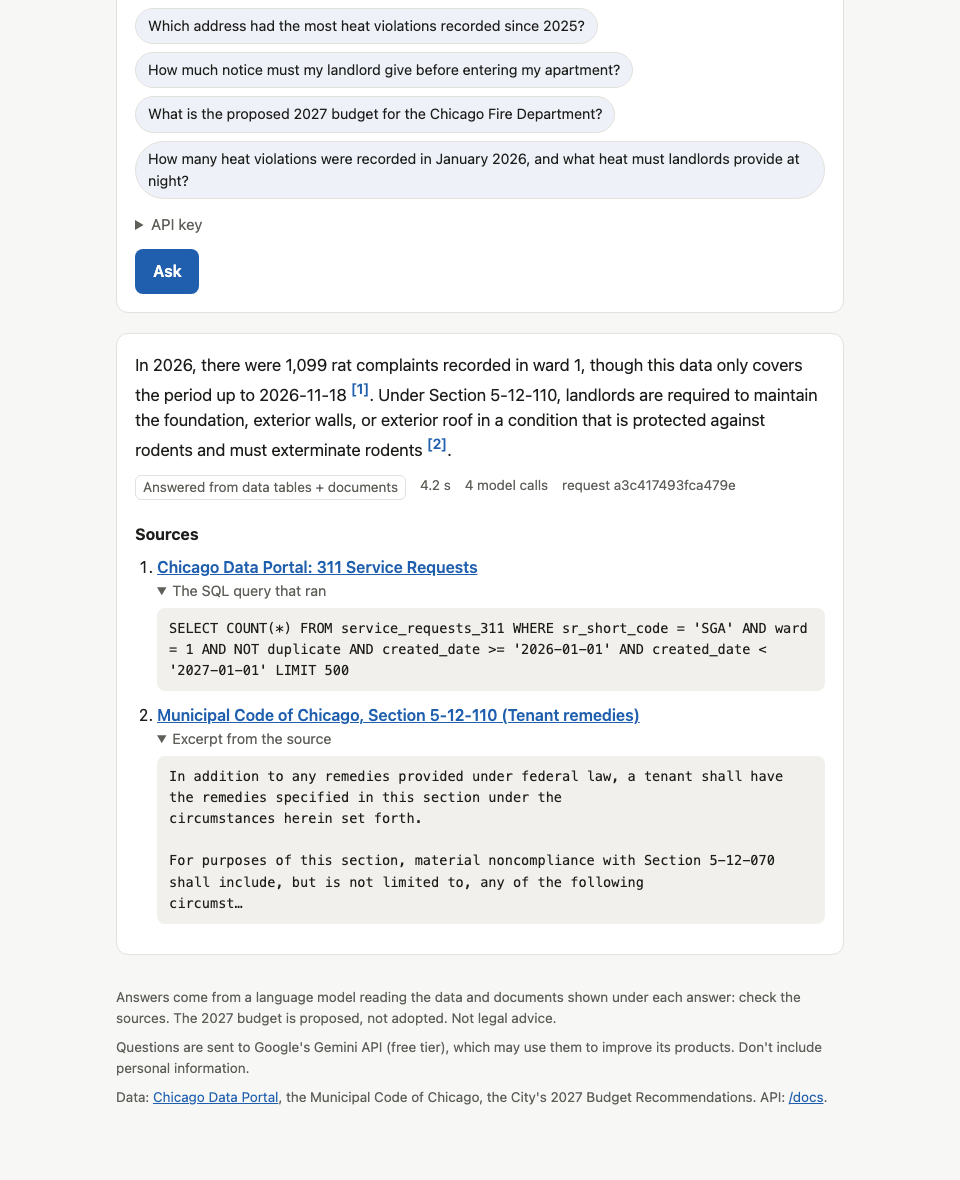
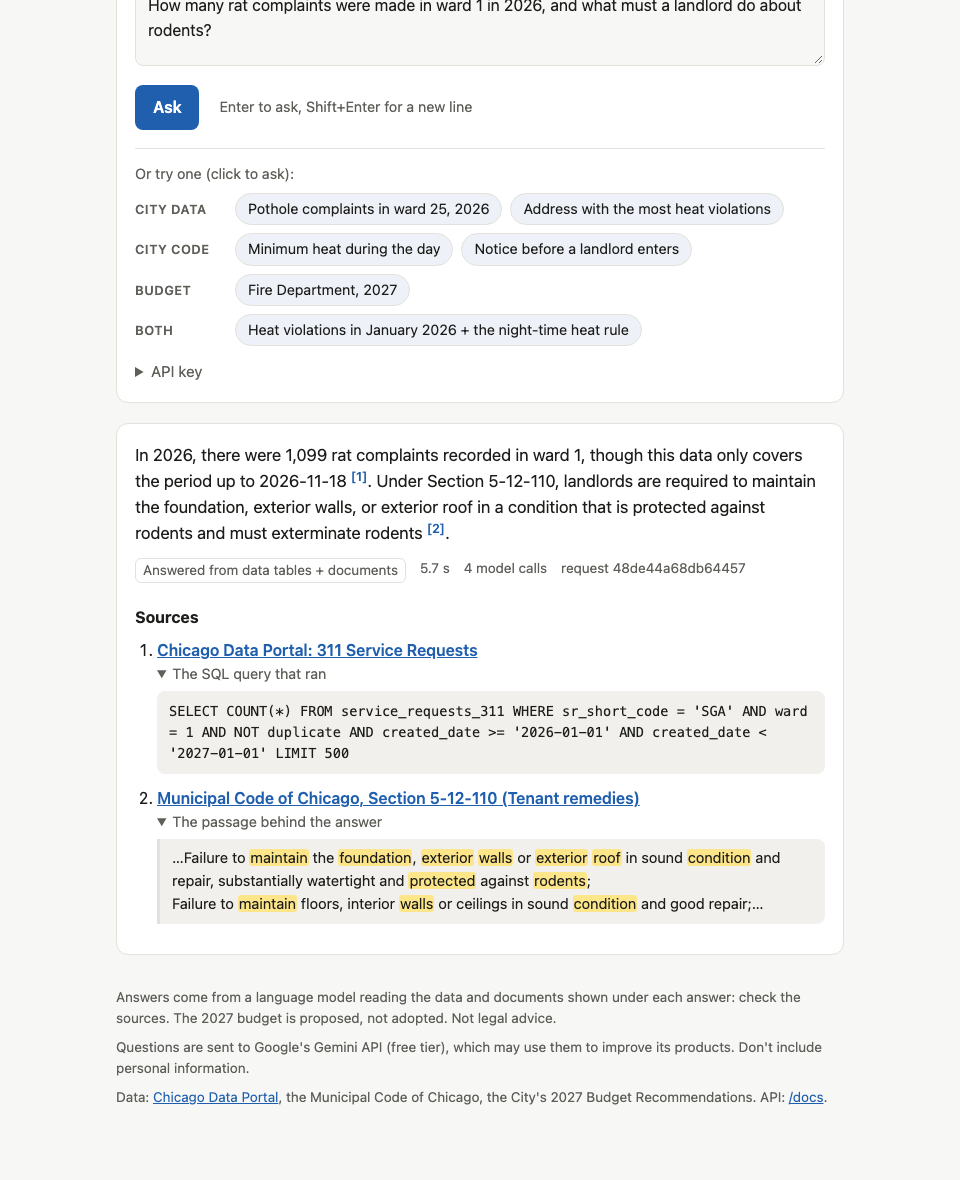
Demo GIF and screenshot re-recorded with the new page
Same question and setup as Day 14 (local, paid key, empty reply cache): 5.7 s,
same answer, with the rodent passage highlighted.

Changed region(s): [[0.125, 0.0, 0.8438, 0.7932], [0.7812, 0.5797, 0.8438, 0.6102], [0.7812, 0.6407, 0.8125, 0.6712]]

diff --git a/docs/BUILD_LOG.md b/docs/BUILD_LOG.md
@@ -4,6 +4,30 @@ One entry per commit, newest first. Each entry says what changed, why, how to ch
 
 ---
 
+## Demo GIF and screenshot re-recorded with the new page
+
+**Goal:** the README shows the page as it is now (grouped examples, the passage behind the answer with its words marked).
+
+Recorded the same way as on Day 14, so the two are comparable: a local server on the real database and the paid key, the same question ("How many rat complaints were made in ward 1 in 2026, and what must a landlord do about rodents?"), driven in headless Chrome. The reply cache pointed at an empty folder (`LLM_CACHE_DIR`), so all 4 model calls were live and the time shown is real: **5.7 s** (Day 14: 4.2 s; Gemini's speed varies from call to call). Same answer as Day 14: 1,099 complaints (SQL on code `SGA`, duplicates excluded) and section 5-12-110, whose excerpt now starts at "Failure to maintain the foundation, exterior walls or exterior roof … protected against rodents".
+
+### What changed
+
+| File | Change |
+| --- | --- |
+| `docs/demo.gif` | 11 frames: typing, asking, the answer, the sources (349 KB) |
+| `docs/screenshot.png` | The answer with its sources open |
+| `README.md` | The caption under the GIF: highlighted sentence, 5.7 s |
+
+### Check it yourself
+
+Open the repository page on GitHub: the new GIF plays at the top.
+
+### Concepts
+
+- **Comparable measurements:** re-recording with the same question, setup and cold cache means the only differences in the picture are the page changes (plus Gemini's normal variation in speed).
+
+---
+
 ## Page: excerpts that show the evidence, a live timer and Cancel, examples that ask
 
 **Goal:** five fixes from a look at the page (`docs/screenshot.png`). Most important: the excerpt under a document citation should show the text that supports the answer.

diff --git a/README.md b/README.md
@@ -5,7 +5,7 @@ Ask questions about Chicago in plain English and get answers that **cite their s
 ![Asking a question that needs both a data table and the Municipal Code](docs/demo.gif)
 
 > "How many rat complaints were made in ward 1 in 2026, and what must a landlord do about rodents?"
-> → 1,099 complaints, from a SQL query over 1.8 million 311 requests [1], and the landlord's duty from Municipal Code section 5-12-110 [2]. 4.2 s.
+> → 1,099 complaints, from a SQL query over 1.8 million 311 requests [1], and the landlord's duty from Municipal Code section 5-12-110 [2], with the sentence that says so highlighted. 5.7 s (paid tier, nothing cached).
 
 ## The problem
 
